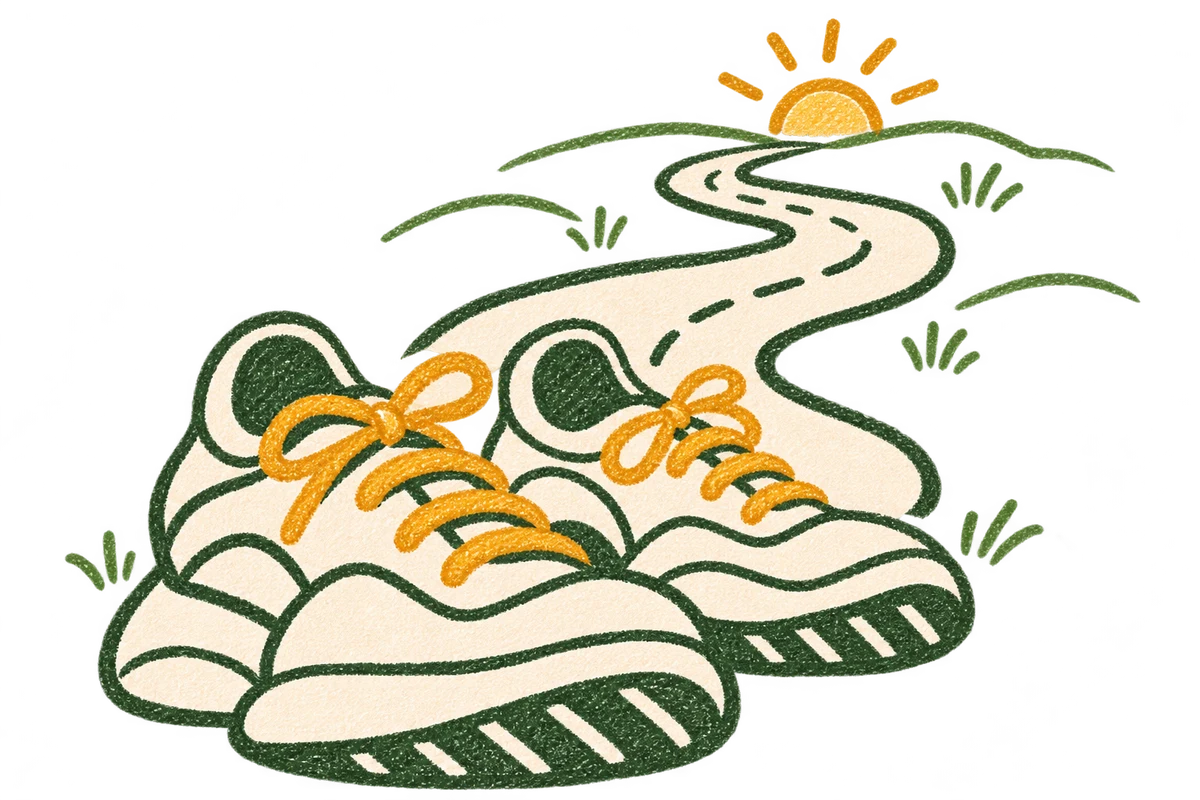
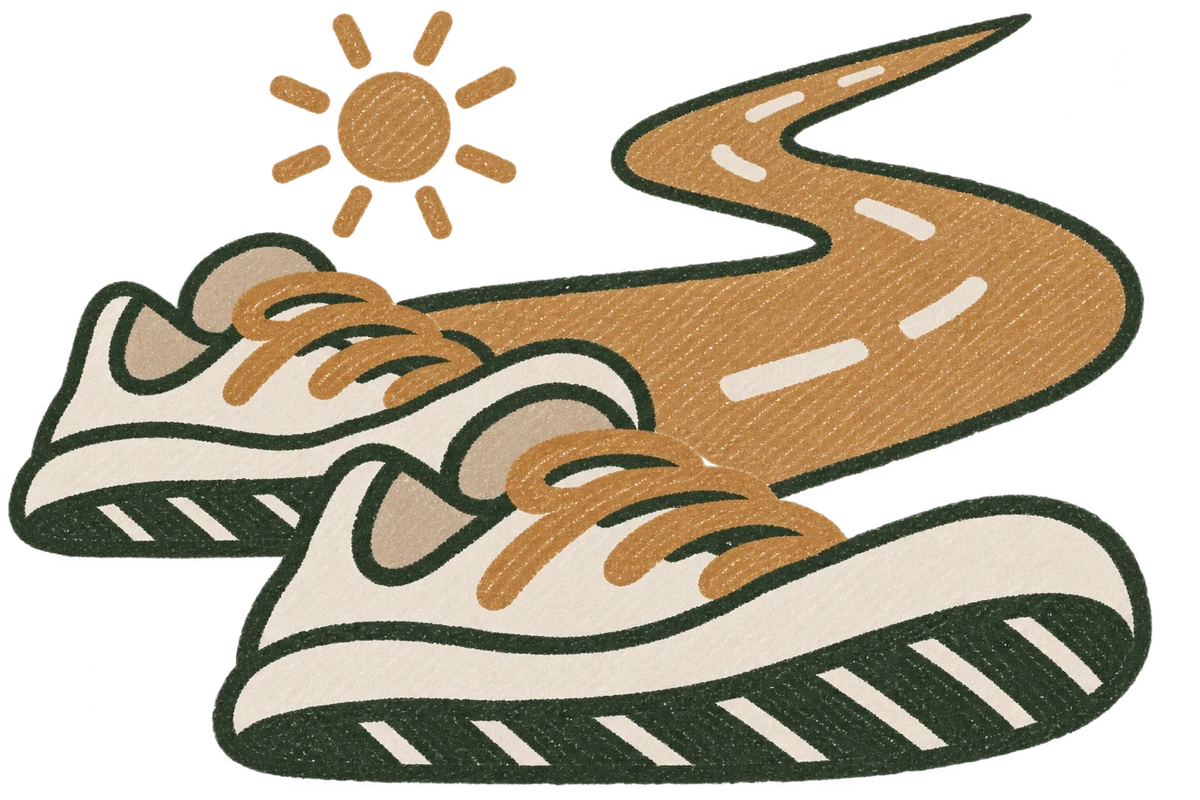
Use the final running shoes illustration

diff --git a/public/studio/culture.html b/public/studio/culture.html
@@ -8,7 +8,7 @@
         <p>ما اینجا دنبال آدمهایی هستیم که اهل پوشیدن کفش رانینگان تا به هدفشون برسن. هر روز.</p>
         <a class="text-link" href="#how-we-work">ببین چطوری کار میکنیم ↓</a>
       </div>
-      <img src="/studio/assets/culture-running-road.webp?v=2" alt="تصویر مدادرنگی یک جفت کفش رانینگ کنار جادهای پیچدار" class="culture-art" width="1200" height="800">
+      <img src="/studio/assets/culture-running-road.webp?v=3" alt="تصویر مدادرنگی یک جفت کفش رانینگ کنار جادهای پیچدار" class="culture-art" width="1200" height="800">
     </div>
   </section>
   <section id="how-we-work" class="section culture-comparison">
